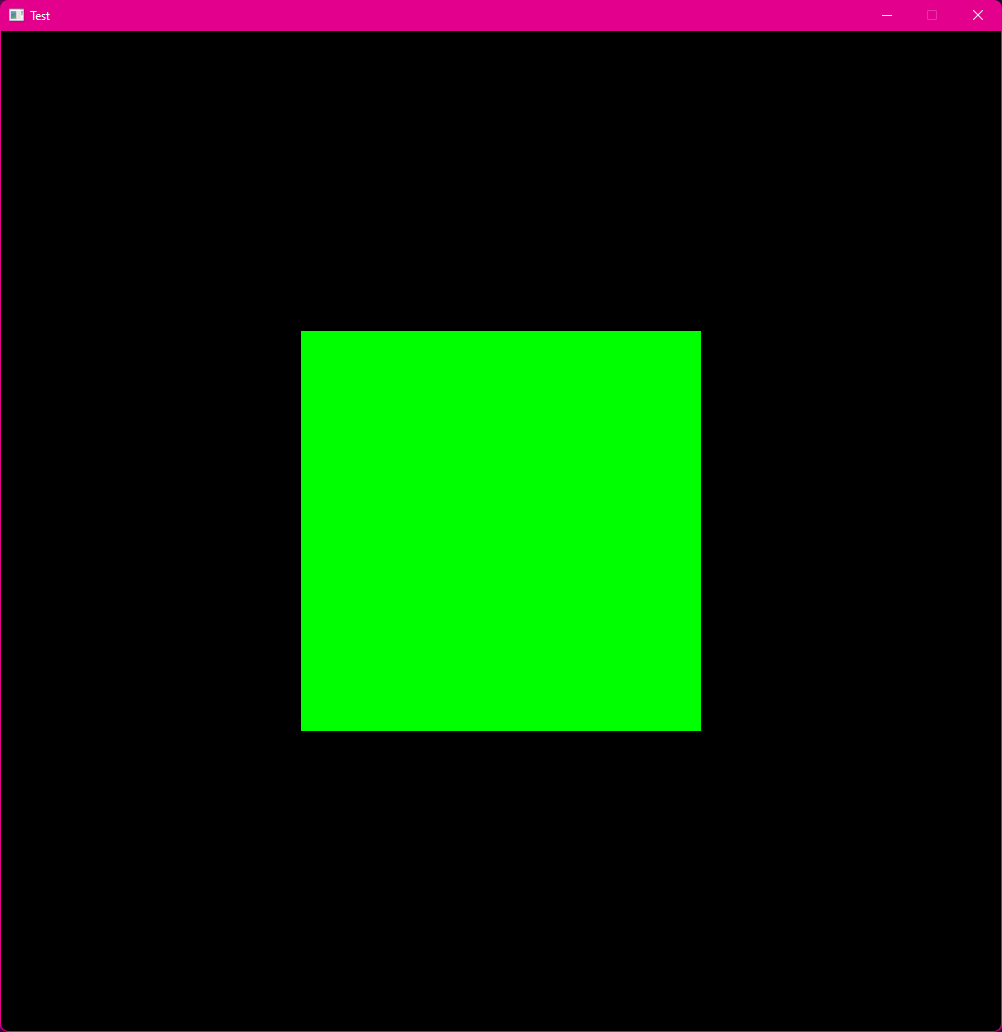
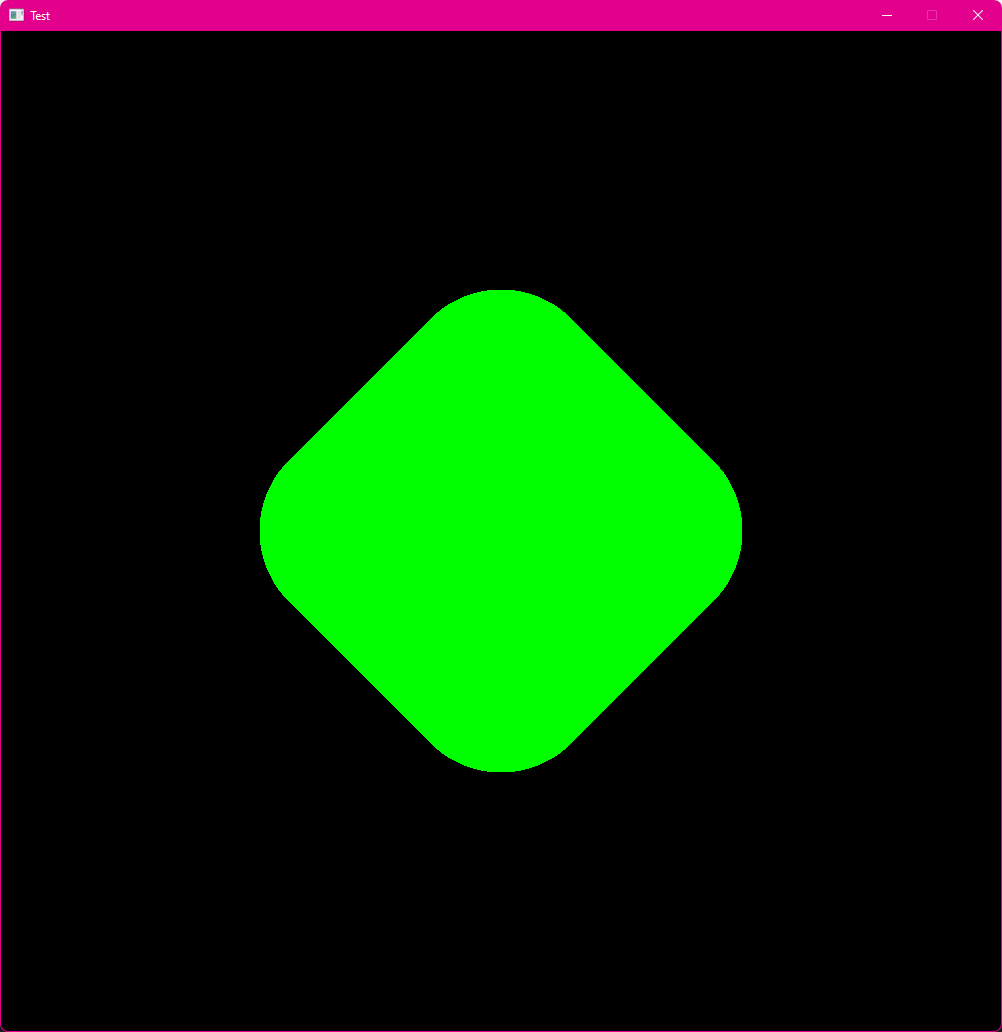
uodated

Changed region(s): [[0.2475, 0.2791, 0.7425, 0.7752], [0.99, 0.9922, 1.0, 1.0]]

diff --git a/documentation/functions/pancake.drawRectangle().md b/documentation/functions/pancake.drawRectangle().md
@@ -10,9 +10,9 @@ Draws a rectangle with given attributes.
 - `y` <- Y coordinate of the upper side of the rectangle
 - `w` <- Width of the rectangle
 - `h` <- Height of the rectangle
+- `rotation (0)` <- The angle of rotation **in degrees**
 - `ox (0)` <- X coordinate of the rotation origin point
 - `oy (0)` <- Y coordinate of the rotation origin point
-- `rotation (0)` <- The angle of rotation **in degrees**
 - `cornerRounding (0)` <- Number that defines how much the corners should be rounded (from 0.0 to 1.0)
 
 ## Outputs
@@ -24,9 +24,9 @@ Nothing.
 ```Lua
 function pancake.event.draw()--Here you draw stuff
   pancake.setColor(0, 255, 0, 255) -- This sets the drawing color to green
-  pancake.drawRectangle(pancake.windowWidth()/2 - 200, pancake.windowHeight()/2 - 200, 400, 400) --Draws a centered square
+  pancake.drawRectangle(pancake.windowWidth()/2 - 200, pancake.windowHeight()/2 - 200, 400, 400, 45, 200, 200, 0.5) --Draws a centered square
 end
 ```
 ![Screenshot](../../images/drawRectangle1.png)
 
-The code above will draw a green, 200 pixels wide square at the center of the screen.
+The code above will draw a green, 200 pixels wide square at the center of the screen with 50% rounded corners and rotated at a 45 degrees angle.

diff --git a/documentation/functions/pancake.drawImage().md b/documentation/functions/pancake.drawImage().md
@@ -1,0 +1,32 @@
+# pancake.drawImage()
+
+## Description
+
+Draws an image with given attributes.
+
+## Inputs
+
+- `image name` <- Name of the image that will be drawn
+- `x` <- desired X coordinate of the upper side of the image
+- `y` <- desired Y coordinate of the upper side of the image
+- `r (0)` <- Rotation of the image **in degrees**. Rotates around origin point
+- `sx (1)` <- Scaling factor for width. Use negative values to mirror the image
+- `sy (sx)` <- Scaling factor for height. Use negative values to mirror the image
+- `ox (0)` <- X coordinate of the rotation origin point
+- `oy (0)` <- Y coordinate of the rotation origin point
+- `cornerRounding (0)` <- Number that defines how much the corners should be rounded (from 0.0 to 1.0)
+
+## Outputs
+
+Nothing.
+
+## Example
+
+```Lua
+function pancake.event.draw()--Here you draw stuff
+  pancake.drawImage("hands_up",0,0,0, 0.5)
+end
+```
+![Screenshot](../../images/drawImage1.png)
+
+The code above will draw image named "hands_up" at the upper left corner of the screen (0,0) with scale of 0.5.

diff --git a/docs/lua.md b/docs/lua.md
@@ -36,8 +36,8 @@ An event callback is a special type of function that runs whenever something hap
   - [pancake.isButtonClicked()](/documentation/functions/pancake.isButtonClicked()) **OUTDATED**
 
 ### Drawing
-  - pancake.drawImage() **NOT YET DOCUMENTED**
-  - pancake.drawRectangle() **NOT YET DOCUMENTED**
+  - [pancake.drawImage()](/documentation/functions/pancake.drawImage())
+  - [pancake.drawRectangle()](/documentation/functions/pancake.drawRectangle())
   - pancake.drawCircle() **NOT YET DOCUMENTED**
   - [pancake.print()](/documentation/functions/pancake.print()) **OUTDATED**
 

diff --git a/documentation/functions/pancake.drawCircle().md b/documentation/functions/pancake.drawCircle().md
@@ -1,0 +1,27 @@
+# pancake.drawCircle()
+
+## Description
+
+Draws a circle with given attributes.
+
+## Inputs
+
+- `x` <- Desired X coordinate
+- `y` <- Desired Y coordinate
+- `r` <- Desired radius
+
+## Outputs
+
+Nothing.
+
+## Example
+
+```Lua
+function pancake.event.draw()--Here you draw stuff
+  local r = pancake.windowHeight()/2
+  pancake.drawCircle(r, r, r)
+end
+```
+![Screenshot](../../images/drawCircle1.png)
+
+This draws a circle at the middle of the screen
